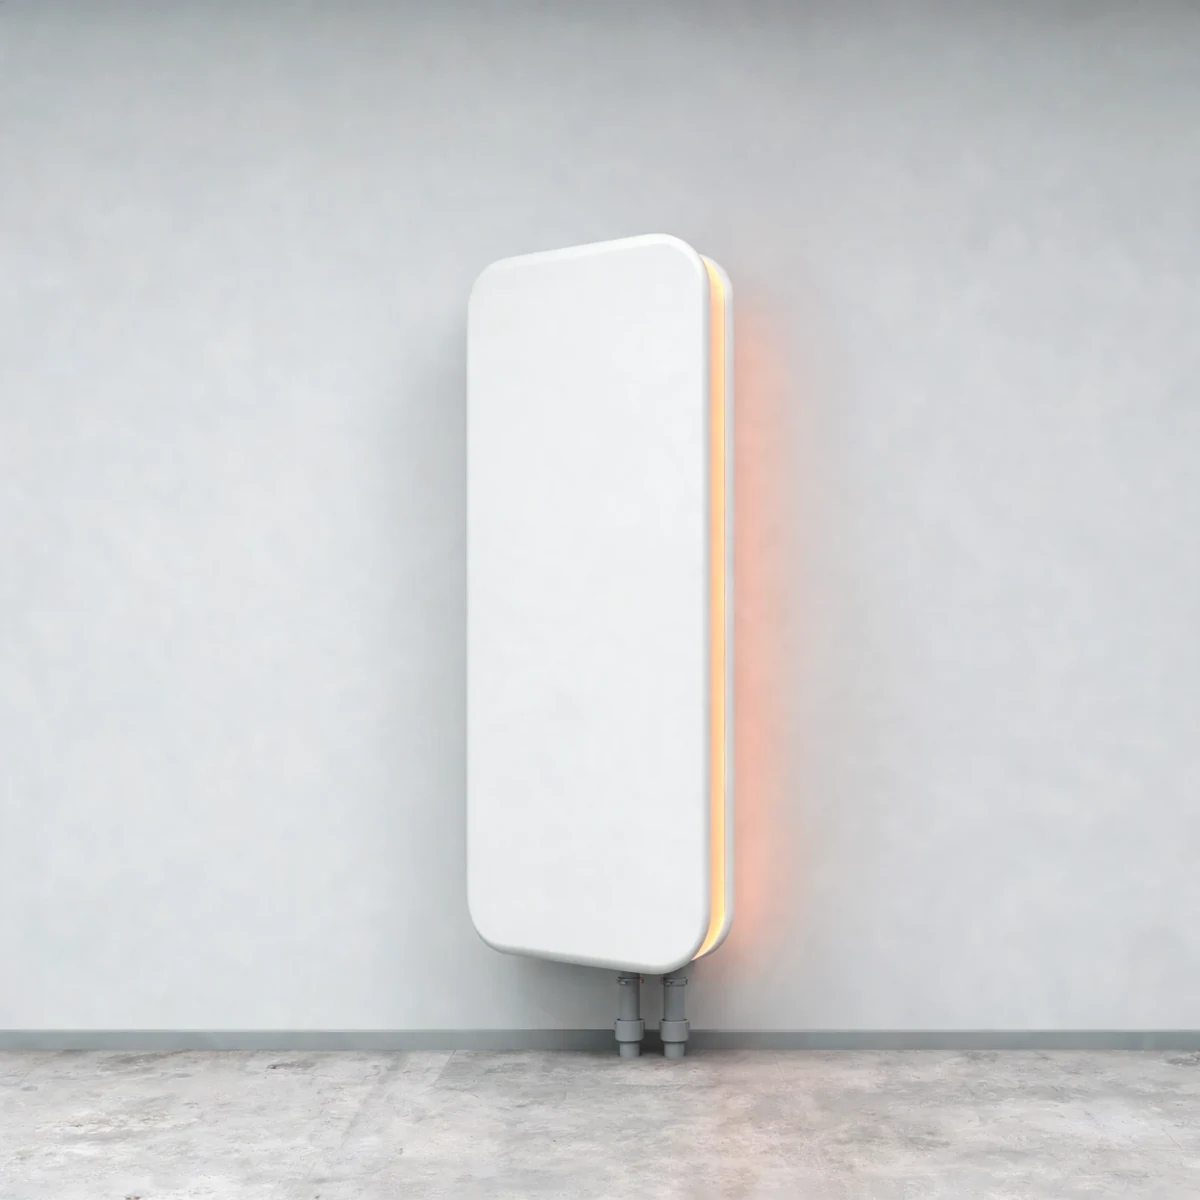
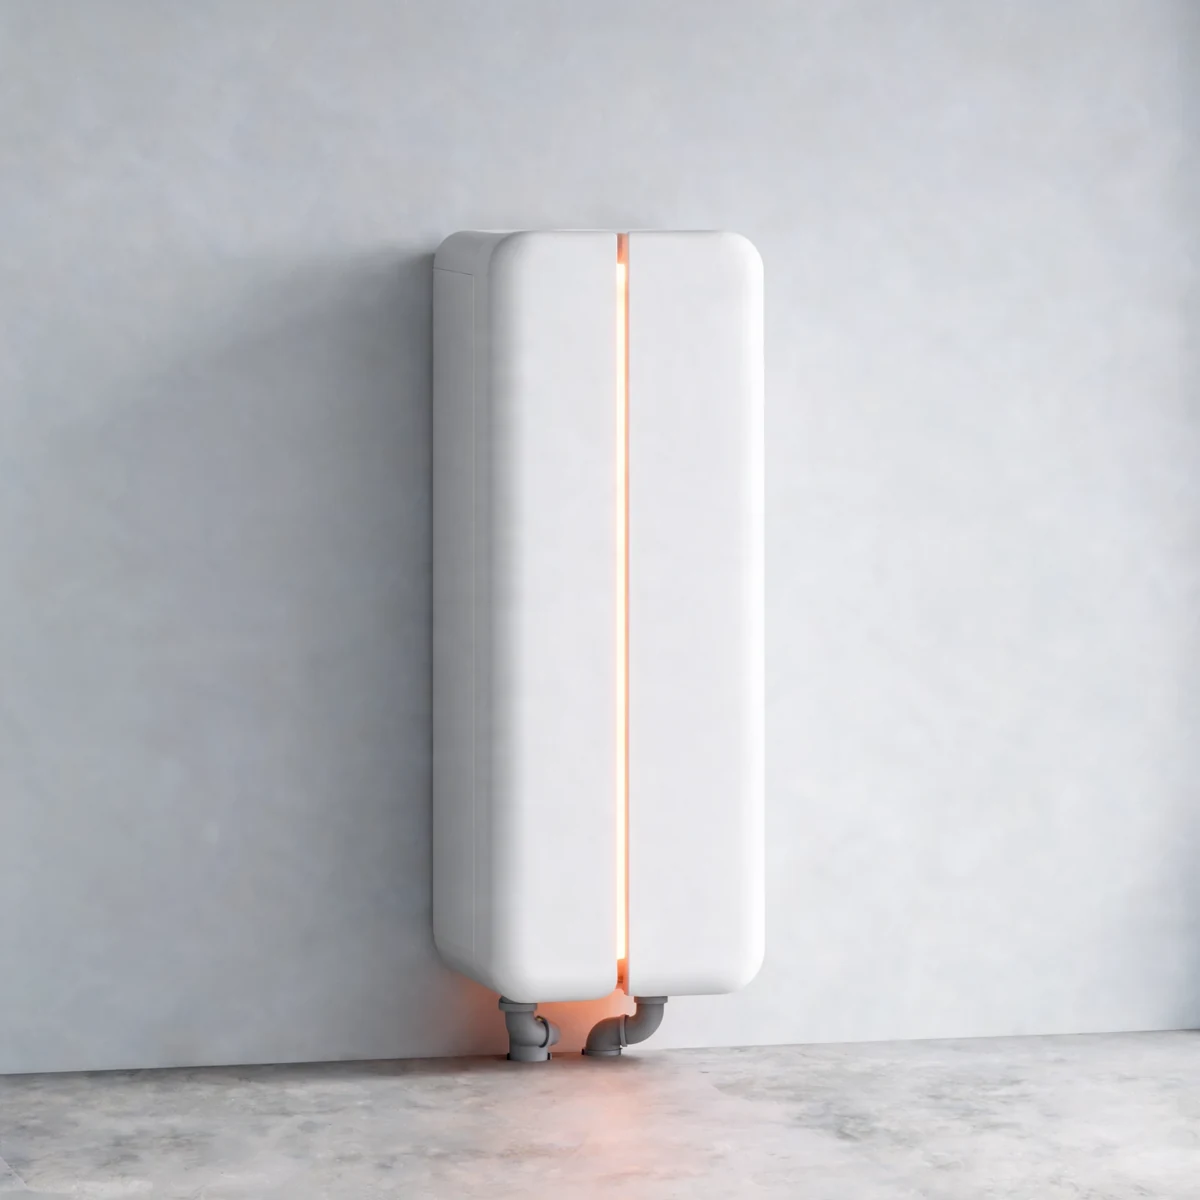
Add solar panel, solar generator, UPS photos; update home battery
Claude-Session: https://claude.ai/code/session_01Fw4vF5uHoBAz1xMyijAbmx

diff --git a/sikandartech/catalog.js b/sikandartech/catalog.js
@@ -564,10 +564,10 @@ const PRODUCTS = [{"id":"ai-smart-glasses","cat":"ai-gadgets","name":"AI smart g
 {"id":"portable-power-stations","cat":"power","name":"Portable power stations","icon":"battery-automotive","status":"available","desc":"Battery generators for camping, backup and off-grid power.","specs":["300–3600Wh LiFePO4","AC outlets","Solar input","UPS mode"],"photo":"images/products/portable-power-stations.webp"},
 {"id":"expandable-battery-systems","cat":"power","name":"Expandable battery systems","icon":"battery-automotive","status":"available","desc":"Power stations with add-on batteries for more capacity.","specs":["Expandable to 10kWh+","LiFePO4","App","Fast recharge"],"photo":"images/products/expandable-battery-systems.webp"},
 {"id":"home-battery-storage","cat":"power","name":"Home battery storage","icon":"home-bolt","status":"available","desc":"Wall or floor batteries that store solar energy for home use.","specs":["5–20kWh","Hybrid inverter","Backup power","App monitoring"],"photo":"images/products/home-battery-storage.webp"},
-{"id":"portable-solar-panels","cat":"power","name":"Portable solar panels","icon":"solar-panel-2","status":"available","desc":"Lightweight solar panels for power stations.","specs":["100–400W","Monocrystalline","Kickstand","MC4 / Anderson"]},
-{"id":"folding-solar-panels","cat":"power","name":"Folding solar panels","icon":"solar-panel-2","status":"available","desc":"Foldable solar panels that pack small for travel.","specs":["Foldable","100–220W","IP67","USB outputs"]},
-{"id":"solar-generators","cat":"power","name":"Solar generators","icon":"solar-electricity","status":"available","desc":"Power station and solar panel bundles for off-grid power.","specs":["Power station + panels","MPPT","Expandable","Silent"]},
-{"id":"smart-ups-systems","cat":"power","name":"Smart UPS systems","icon":"plug-connected","status":"available","desc":"Uninterruptible power supplies with monitoring for PCs and networks.","specs":["Line-interactive","LCD","USB / network monitoring","Surge protection"]},
+{"id":"portable-solar-panels","cat":"power","name":"Portable solar panels","icon":"solar-panel-2","status":"available","desc":"Lightweight solar panels for power stations.","specs":["100–400W","Monocrystalline","Kickstand","MC4 / Anderson"],"photo":"images/products/portable-solar-panels.webp"},
+{"id":"folding-solar-panels","cat":"power","name":"Folding solar panels","icon":"solar-panel-2","status":"available","desc":"Foldable solar panels that pack small for travel.","specs":["Foldable","100–220W","IP67","USB outputs"],"photo":"images/products/folding-solar-panels.webp"},
+{"id":"solar-generators","cat":"power","name":"Solar generators","icon":"solar-electricity","status":"available","desc":"Power station and solar panel bundles for off-grid power.","specs":["Power station + panels","MPPT","Expandable","Silent"],"photo":"images/products/solar-generators.webp"},
+{"id":"smart-ups-systems","cat":"power","name":"Smart UPS systems","icon":"plug-connected","status":"available","desc":"Uninterruptible power supplies with monitoring for PCs and networks.","specs":["Line-interactive","LCD","USB / network monitoring","Surge protection"],"photo":"images/products/smart-ups-systems.webp"},
 {"id":"online-ups-systems","cat":"power","name":"Online UPS systems","icon":"server-bolt","status":"available","desc":"Double-conversion UPS for servers and sensitive equipment.","specs":["Online double conversion","Rack / tower","Hot-swap batteries","SNMP"]},
 {"id":"portable-dc-power-supplies","cat":"power","name":"Portable DC power supplies","icon":"bolt","status":"available","desc":"Compact adjustable DC supplies for electronics.","specs":["0–30V adjustable","USB-C PD input","Display","Portable"]},
 {"id":"battery-management-systems","cat":"power","name":"Battery management systems","icon":"battery-charging-2","status":"available","desc":"BMS boards that protect and balance lithium battery packs.","specs":["Cell balancing","Protection","Bluetooth monitoring","Li-ion / LiFePO4"]},

diff --git a/sikandartech/PRODUCT-PHOTO-PROMPTS.md b/sikandartech/PRODUCT-PHOTO-PROMPTS.md
@@ -1,6 +1,6 @@
 # SikandarTech: product photo prompts (complete listing)
 
-**217 products still need a photo** (430 done). One prompt per product, ready to copy.
+**213 products still need a photo** (434 done). One prompt per product, ready to copy.
 
 How to use:
 1. Set the generator to **square 1:1** and download in the highest resolution available (1024 px or more).
@@ -230,7 +230,7 @@ Studio product photo: UV-cleaning home devices. Show design details that suggest
 
 ---
 
-## Charging, Batteries & Portable Power (13)
+## Charging, Batteries & Portable Power (9)
 
 ### ST-0334 · Qi2-compatible chargers
 - [ ] File: `qi2-compatible-chargers.jpg`
@@ -244,34 +244,6 @@ Studio product photo: Qi2-compatible chargers. Magnetic Qi2 chargers with fast, 
 
 ```
 Studio product photo: Multi-device charging stations. Show design details that suggest: 3-in-1, foldable, 15w. Premium studio product photography, seamless light off-white background, soft diffused light, gentle contact shadow, subtle warm orange rim light, realistic materials and reflections, three-quarter view, centered, the product fills about 65% of the frame, ultra sharp, photorealistic, square 1:1, full-bleed image filling the entire frame. Generic unbranded design: no text, no letters, no numbers, no logos, no brand names, no watermark, no people, no hands, no smartphones or mobile phones anywhere.
-```
-
-### ST-0347 · Portable solar panels
-- [ ] File: `portable-solar-panels.jpg`
-
-```
-Studio product photo: Portable solar panels. Lightweight solar panels for power stations. Show design details that suggest: 100–400w, monocrystalline, kickstand. Premium studio product photography, seamless light off-white background, soft diffused light, gentle contact shadow, subtle warm orange rim light, realistic materials and reflections, three-quarter view, centered, the product fills about 65% of the frame, ultra sharp, photorealistic, square 1:1, full-bleed image filling the entire frame. Generic unbranded design: no text, no letters, no numbers, no logos, no brand names, no watermark, no people, no hands, no smartphones or mobile phones anywhere.
-```
-
-### ST-0348 · Folding solar panels
-- [ ] File: `folding-solar-panels.jpg`
-
-```
-Studio product photo: Folding solar panels. Foldable solar panels that pack small for travel. Show design details that suggest: foldable, 100–220w, ip67. Premium studio product photography, seamless light off-white background, soft diffused light, gentle contact shadow, subtle warm orange rim light, realistic materials and reflections, three-quarter view, centered, the product fills about 65% of the frame, ultra sharp, photorealistic, square 1:1, full-bleed image filling the entire frame. Generic unbranded design: no text, no letters, no numbers, no logos, no brand names, no watermark, no people, no hands, no smartphones or mobile phones anywhere.
-```
-
-### ST-0349 · Solar generators
-- [ ] File: `solar-generators.jpg`
-
-```
-Studio product photo: Solar generators. Power station and solar panel bundles for off-grid power. Show design details that suggest: power station + panels, mppt, expandable. Premium studio product photography, seamless light off-white background, soft diffused light, gentle contact shadow, subtle warm orange rim light, realistic materials and reflections, three-quarter view, centered, the product fills about 65% of the frame, ultra sharp, photorealistic, square 1:1, full-bleed image filling the entire frame. Generic unbranded design: no text, no letters, no numbers, no logos, no brand names, no watermark, no people, no hands, no smartphones or mobile phones anywhere.
-```
-
-### ST-0350 · Smart UPS systems
-- [ ] File: `smart-ups-systems.jpg`
-
-```
-Studio product photo: Smart UPS systems. Uninterruptible power supplies with monitoring for PCs and networks. Show design details that suggest: line-interactive, lcd, usb / network monitoring. Premium studio product photography, seamless light off-white background, soft diffused light, gentle contact shadow, subtle warm orange rim light, realistic materials and reflections, three-quarter view, centered, the product fills about 65% of the frame, ultra sharp, photorealistic, square 1:1, full-bleed image filling the entire frame. Generic unbranded design: no text, no letters, no numbers, no logos, no brand names, no watermark, no people, no hands, no smartphones or mobile phones anywhere.
 ```
 
 ### ST-0351 · Online UPS systems
